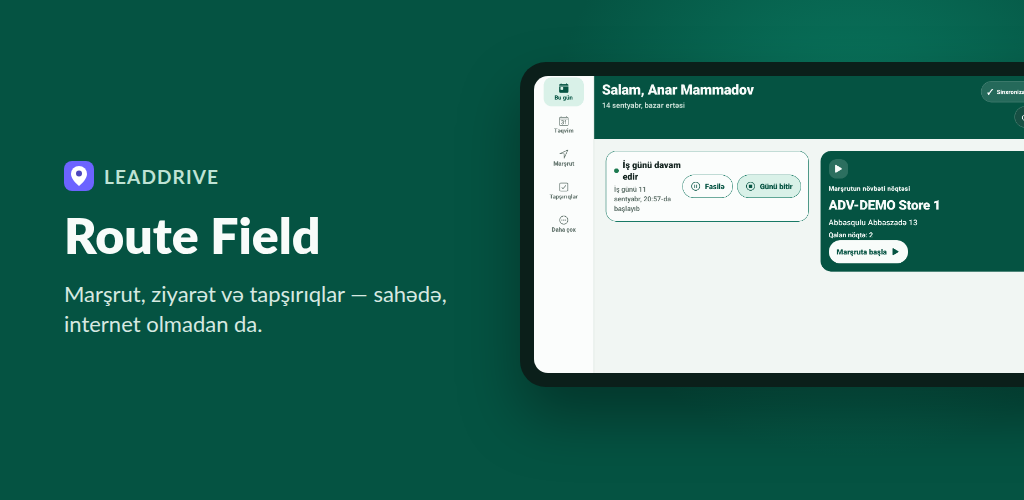
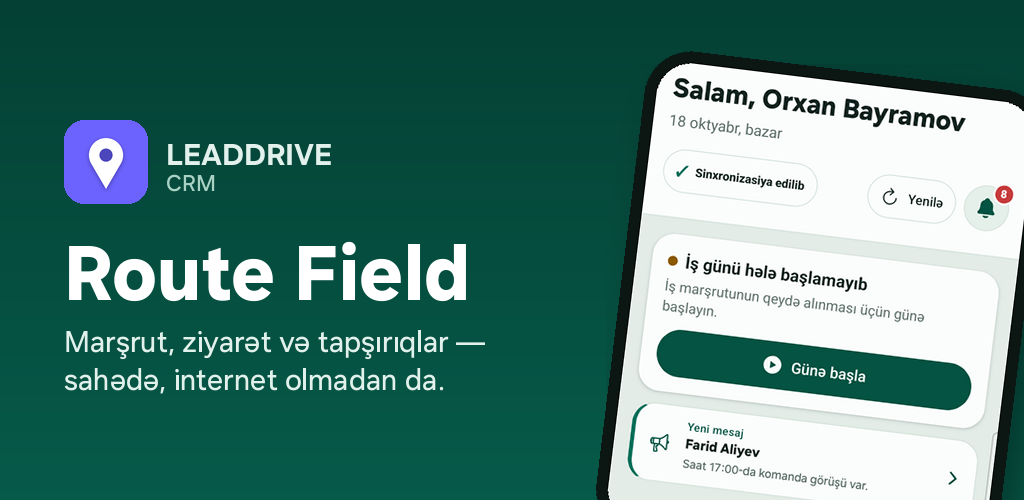
docs(google-play): скриншоты и баннер для витрины, имена клиентов заменены
Пять экранов агента 3.11.31 (Bu gün, Marşrut, Müştərilər, Təqvim, Daha çox):
1080×1920 с подписью на az/ru/en и без рамки 1080×2073 (Play не берёт
1080×2340 — сторона длиннее двух других). Баннер 1024×500 пересобран из
нынешнего экрана «Bu gün».

Сняты на телефоне владельца под агентом клиентского тенанта, только
переключением вкладок; по его указанию все настоящие имена сотрудников,
клиник, врачей и адреса на картинках заменены вымышленными. Инструменты
замены и сборки — docs/google-play/tools.

diff --git a/docs/google-play/tools/redact.py b/docs/google-play/tools/redact.py
@@ -1,0 +1,141 @@
+"""Replace real names on an app screenshot with fictional ones.
+
+usage: python3 redact.py <shot.png> <ui.xml> <mapping.json> <out.png>
+
+mapping.json: [{"old": "<exact node text>", "new": "<replacement>"}, ...]
+Every node of the uiautomator dump whose text equals `old` (or contains it,
+when "contains": true) is located by its bounds; the ink of the original text
+is measured, the font size and weight are fitted by rendering the original
+text in the phone's own font (One UI Sans), the ink is painted over with the
+background, and the replacement is drawn at the same baseline and colour.
+Prints every replacement and every node it could not fit.
+"""
+import html
+import json
+import re
+import sys
+from collections import Counter
+
+from PIL import Image, ImageDraw, ImageFont
+
+FONT = sys.argv[5] if len(sys.argv) > 5 else None
+WEIGHTS = [400, 500, 600, 700, 800]
+
+
+def font(size, weight):
+    f = ImageFont.truetype(FONT, size)
+    f.set_variation_by_axes([weight])
+    return f
+
+
+def nodes(xml):
+    x = open(xml, encoding="utf-8", errors="replace").read()
+    for m in re.finditer(r'<node [^>]*?text="([^"]*)"[^>]*?bounds="\[(\d+),(\d+)\]\[(\d+),(\d+)\]"', x):
+        t = html.unescape(m.group(1))
+        if t:
+            yield t, tuple(int(v) for v in m.groups()[1:])
+
+
+def dist(a, b):
+    return sum(abs(x - y) for x, y in zip(a, b))
+
+
+def ink_box(img, box, bg, thr=60):
+    x0, y0, x1, y1 = box
+    px = img.load()
+    xs, ys, cols = [], [], []
+    for y in range(y0, y1):
+        for x in range(x0, x1):
+            c = px[x, y]
+            d = dist(c, bg)
+            if d > thr:
+                xs.append(x); ys.append(y); cols.append((d, c))
+    if not xs:
+        return None, None, 0
+    cols.sort(reverse=True)
+    top = [c for _, c in cols[: max(1, len(cols) // 5)]]
+    colour = tuple(sorted(ch)[len(ch) // 2] for ch in zip(*top))
+    return (min(xs), min(ys), max(xs) + 1, max(ys) + 1), colour, len(xs)
+
+
+def render_ink(text, f):
+    l, t, r, b = f.getbbox(text)
+    w, h = r - l + 8, b - t + 8
+    im = Image.new("L", (w, h), 0)
+    ImageDraw.Draw(im).text((4 - l, 4 - t), text, font=f, fill=255)
+    bb = im.point(lambda v: 255 if v > 90 else 0).getbbox()
+    cnt = sum(1 for v in im.tobytes() if v > 90)
+    # offset from the draw origin (0,0) to the ink box top-left
+    return (bb[0] - 4 + l, bb[1] - 4 + t), (bb[2] - bb[0], bb[3] - bb[1]), cnt
+
+
+def fit(old, ink_w, ink_h, ink_cnt):
+    best = None
+    for w in WEIGHTS:
+        size = 40
+        for _ in range(6):
+            _, (rw, rh), _ = render_ink(old, font(size, w))
+            if rw == 0:
+                break
+            size = max(8, round(size * ink_w / rw))
+        off, (rw, rh), cnt = render_ink(old, font(size, w))
+        score = abs(rw - ink_w) / ink_w + abs(rh - ink_h) / max(ink_h, 1) + abs(cnt - ink_cnt) / max(ink_cnt, 1)
+        if best is None or score < best[0]:
+            best = (score, size, w, off)
+    return best
+
+
+def main():
+    shot, xml, mapping_path, out = sys.argv[1:5]
+    img = Image.open(shot).convert("RGB")
+    mapping = json.load(open(mapping_path, encoding="utf-8"))
+    draw = ImageDraw.Draw(img)
+    done = set()
+    fits = {}
+    for text, (x0, y0, x1, y1) in nodes(xml):
+        for m in mapping:
+            hit = (m["old"] in text) if m.get("contains") else (text == m["old"])
+            if not hit:
+                continue
+            new = text.replace(m["old"], m["new"]) if m.get("contains") else m["new"]
+            region = img.crop((x0, y0, x1, y1))
+            border = [region.getpixel((x, 0)) for x in range(region.width)] + \
+                     [region.getpixel((x, region.height - 1)) for x in range(region.width)]
+            bg = Counter(border).most_common(1)[0][0]
+            box, colour, cnt = ink_box(img, (x0, y0, x1, y1), bg)
+            if not box:
+                print("NO INK", text); continue
+            iw, ih = box[2] - box[0], box[3] - box[1]
+            if m.get("like"):
+                # Multi-line node: borrow size/weight from a single-line node of
+                # the same style, align the new text's ink top to the old one.
+                size, weight = fits[m["like"]]
+                f = font(size, weight)
+                off, _, _ = render_ink(new.split("\n")[0], f)
+                score = 0
+            else:
+                score, size, weight, off = fit(text, iw, ih, cnt)
+                fits[text] = (size, weight)
+            if score > 0.6:
+                print(f"POOR FIT {score:.2f}", text, box)
+            pad = 3
+            draw.rectangle((max(x0, box[0] - pad), max(y0, box[1] - pad), min(x1, box[2] + pad), min(y1, box[3] + pad)), fill=bg)
+            f = font(size, weight)
+            origin = (box[0] - off[0], box[1] - off[1])
+            # Ink top of the new text may differ (no capitals / descenders), so
+            # anchor on the baseline of the original instead of its ink top.
+            asc_old = f.getbbox(text)[1]
+            asc_new = f.getbbox(new)[1]
+            for i, line in enumerate(new.split("\n")):
+                draw.text((origin[0], origin[1] + i * m.get("line_h", 0)), line, font=f, fill=colour)
+            nb = f.getbbox(max(new.split("\n"), key=len))
+            right = origin[0] + nb[2]
+            flag = " OVERFLOW" if right > x1 else ""
+            print(f"{text!r} -> {new!r} size={size} w={weight} colour={colour} bg={bg}{flag}")
+            done.add(text)
+            break
+    img.save(out)
+
+
+if __name__ == "__main__":
+    main()

diff --git a/docs/google-play/tools/compose.py b/docs/google-play/tools/compose.py
@@ -1,0 +1,119 @@
+"""Build Google Play graphics from redacted phone screenshots.
+
+usage: python3 compose.py <shots_dir> <font.ttf> <icon-512.png> <out_dir>
+"""
+import os
+import sys
+
+from PIL import Image, ImageDraw, ImageFilter, ImageFont
+
+SHOTS, FONT, ICON, OUT = sys.argv[1:5]
+GREEN = (6, 90, 73)
+GREEN_DEEP = (4, 64, 52)
+MINT = (226, 241, 236)
+WHITE = (255, 255, 255)
+
+# status bar above 110 px and the system navigation bar below 2183 px are
+# dropped: Play refuses a side longer than twice the other (1080x2340 is 2.17)
+CROP = (0, 110, 1080, 2183)
+
+SET = [
+    ("01-today", "a0.red.png", {
+        "az": "Gün bir ekranda", "ru": "День на одном экране", "en": "Your day on one screen"}),
+    ("02-route", "a2.red.png", {
+        "az": "Marşrut nöqtə-nöqtə", "ru": "Маршрут по точкам", "en": "Your route, stop by stop"}),
+    ("03-customers", "a3.red.png", {
+        "az": "Həkimlər və müştərilər əlinizdə", "ru": "Врачи и клиенты под рукой", "en": "Doctors and customers at hand"}),
+    ("04-calendar", "a1.png", {
+        "az": "Ayın planı bir baxışda", "ru": "План месяца одним взглядом", "en": "The month's plan at a glance"}),
+    ("05-more", "a5.png", {
+        "az": "Müraciətlər, mesajlar, ziyarətlər", "ru": "Заявки, сообщения, визиты", "en": "Requests, messages, visits"}),
+]
+
+
+def font(size, weight):
+    f = ImageFont.truetype(FONT, size)
+    f.set_variation_by_axes([weight])
+    return f
+
+
+def rounded(img, radius):
+    mask = Image.new("L", img.size, 0)
+    ImageDraw.Draw(mask).rounded_rectangle((0, 0, img.width - 1, img.height - 1), radius, fill=255)
+    out = Image.new("RGBA", img.size)
+    out.paste(img, (0, 0), mask)
+    return out
+
+
+def gradient(w, h):
+    bg = Image.new("RGB", (w, h), GREEN)
+    top = Image.new("RGB", (w, h), GREEN_DEEP)
+    mask = Image.linear_gradient("L").resize((w, h))
+    return Image.composite(bg, top, mask)
+
+
+def framed(shot, caption):
+    W, H = 1080, 1920
+    canvas = gradient(W, H).convert("RGBA")
+    d = ImageDraw.Draw(canvas)
+    f = font(66, 750)
+    while d.textlength(caption, font=f) > W - 120:
+        f = font(f.size - 2, 750)
+    tw = d.textlength(caption, font=f)
+    d.text(((W - tw) / 2, 120), caption, font=f, fill=WHITE)
+    sw = 820
+    sh = round(shot.height * sw / shot.width)
+    s = rounded(shot.resize((sw, sh), Image.LANCZOS).convert("RGBA"), 44)
+    x, y = (W - sw) // 2, 280
+    shadow = Image.new("RGBA", (sw + 80, sh + 80), (0, 0, 0, 0))
+    ImageDraw.Draw(shadow).rounded_rectangle((40, 50, sw + 40, sh + 40), 44, fill=(0, 0, 0, 110))
+    canvas.alpha_composite(shadow.filter(ImageFilter.GaussianBlur(22)), (x - 40, y - 40))
+    canvas.alpha_composite(s, (x, y))
+    return canvas.convert("RGB")
+
+
+def feature_graphic(shot, icon):
+    W, H = 1024, 500
+    canvas = gradient(W, H).convert("RGBA")
+    d = ImageDraw.Draw(canvas)
+    ic = rounded(icon.resize((84, 84), Image.LANCZOS).convert("RGBA"), 20)
+    canvas.alpha_composite(ic, (64, 120))
+    d.text((166, 134), "LEADDRIVE", font=font(30, 700), fill=MINT)
+    d.text((166, 168), "CRM", font=font(22, 500), fill=(170, 210, 196))
+    d.text((64, 222), "Route Field", font=font(76, 800), fill=WHITE)
+    tag = font(29, 450)
+    d.text((64, 322), "Marşrut, ziyarət və tapşırıqlar —", font=tag, fill=MINT)
+    d.text((64, 360), "sahədə, internet olmadan da.", font=tag, fill=MINT)
+    # the top of the Today screen, as a phone tilted into the frame
+    top = shot.crop((0, 0, 1080, 1320))
+    pw = 380
+    ph = round(top.height * pw / top.width)
+    phone = Image.new("RGBA", (pw + 24, ph + 24), (12, 22, 19, 255))
+    phone = rounded(phone, 46)
+    phone.alpha_composite(rounded(top.resize((pw, ph), Image.LANCZOS).convert("RGBA"), 34), (12, 12))
+    phone = phone.rotate(-7, resample=Image.BICUBIC, expand=True)
+    shadow = Image.new("RGBA", phone.size, (0, 0, 0, 0))
+    shadow.putalpha(phone.getchannel("A").point(lambda v: 90 if v else 0))
+    canvas.alpha_composite(shadow.filter(ImageFilter.GaussianBlur(18)), (606, 64))
+    canvas.alpha_composite(phone, (590, 46))
+    return canvas.convert("RGB")
+
+
+def main():
+    os.makedirs(OUT, exist_ok=True)
+    for lang in ("az", "ru", "en"):
+        os.makedirs(os.path.join(OUT, f"phone-{lang}"), exist_ok=True)
+    os.makedirs(os.path.join(OUT, "phone-plain"), exist_ok=True)
+    shots = {}
+    for name, src, captions in SET:
+        shot = Image.open(os.path.join(SHOTS, src)).convert("RGB").crop(CROP)
+        shots[name] = shot
+        shot.save(os.path.join(OUT, "phone-plain", f"{name}.png"), optimize=True)
+        for lang, cap in captions.items():
+            framed(shot, cap).save(os.path.join(OUT, f"phone-{lang}", f"{name}.png"), optimize=True)
+    feature_graphic(shots["01-today"], Image.open(ICON)).save(os.path.join(OUT, "feature-graphic-1024x500.png"), optimize=True)
+    Image.open(ICON).save(os.path.join(OUT, "icon-512.png"))
+
+
+if __name__ == "__main__":
+    main()

diff --git a/docs/google-play/README.md b/docs/google-play/README.md
@@ -167,9 +167,29 @@ Contabo — обработчики по поручению, руководите
 | Что | Требование Play | Статус |
 |---|---|---|
 | Иконка | 512×512 PNG | `icon-512.png` — совпадает с `ic_launcher` (метка на `#6C63FF`) |
-| Баннер | 1024×500 | `feature-graphic.png` — сентябрьский вид; переснять со скриншотами |
-| Скриншоты телефона | 2–8, 9:16 | снимаются на S23 (SM-S918B) под демо-агентом LeadDrive Inc.; 2026-10-18 телефон был под руководителем Zeytun Pharma — его экраны в магазин нельзя |
-| Скриншоты планшета | по желанию | Redmi Pad, если подключён |
+| Баннер | 1024×500 | `feature-graphic.png` — пересобран 2026-10-18 из экрана «Bu gün» 3.11.31 |
+| Скриншоты телефона | 2–8, сторона не длиннее двух других | `screenshots/phone-{az,ru,en}/` — 1080×1920 с подписью на языке витрины; `screenshots/phone-plain/` — те же кадры без рамки, 1080×2073 |
+| Скриншоты планшета | по желанию | не сняты |
+
+Откуда кадры (2026-10-18). Тестовый S23 остаётся под руководителем Zeytun Pharma —
+владелец: «оставь тенант не трогай». Снято на рабочем S26 (SM-S948B) владельца под
+агентом клиентского тенанта, только переключением вкладок (рабочий день не
+начинался, сообщения и уведомления не открывались), и по его же указанию
+(«заменишь просто название клиентов») все настоящие имена на картинках заменены
+вымышленными: сотрудник → Orxan Bayramov, руководитель → Farid Aliyev, клиники →
+«Mərkəzi Ailə Klinikası», «Yaşıl Bağ Tibb Mərkəzi», врачи → Həsənov Rauf, Nərmin
+Əliyeva, адреса — вымышленные. Исходные снимки с настоящими данными удалены, в
+репозиторий не попадали.
+
+Как переснять: `tools/redact.py` (находит текст по `uiautomator dump`, подбирает
+размер и насыщенность по шрифту телефона `/system/fonts/OneUISans-VF.ttf`,
+закрашивает фоном и вписывает замену), затем `tools/compose.py` (обрезка
+строки состояния и навигации — Play не берёт 1080×2340, это 2,17:1; подписи;
+баннер). Перед публикацией сверить разметку каждого кадра со списком настоящих
+имён — ни одного оставшегося.
+
+Не годятся в витрину: карточка врача показывает сырые значения `DOCTOR` и
+`ACTIVE` вместо перевода; вкладка задач у агента пустая.
 
 Видео для деклараций (≤ 30 с, YouTube по ссылке): «Начать день» → объяснение →
 системный запрос → «Разрешать всегда» → домой, шторка с уведомлением
